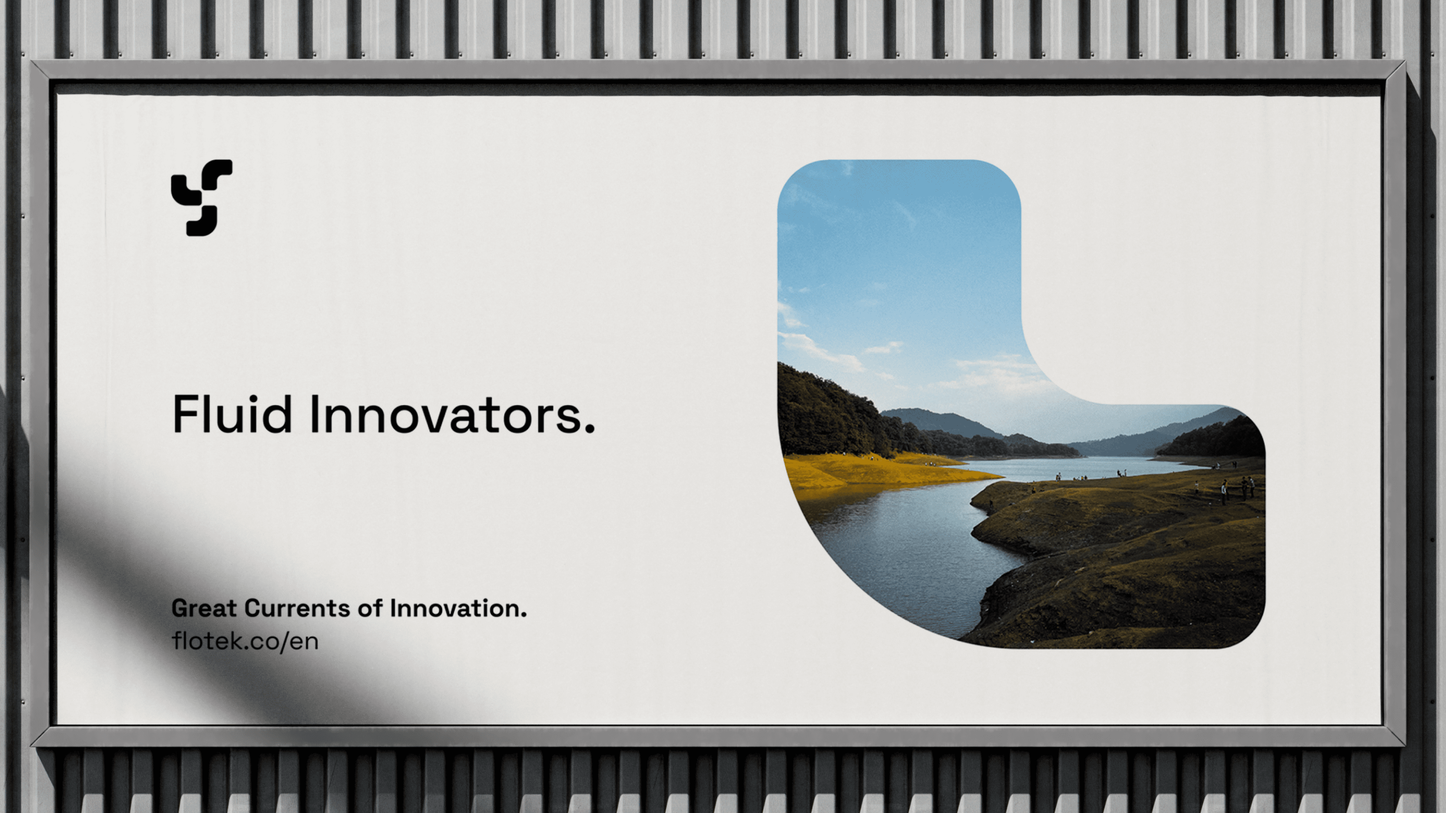
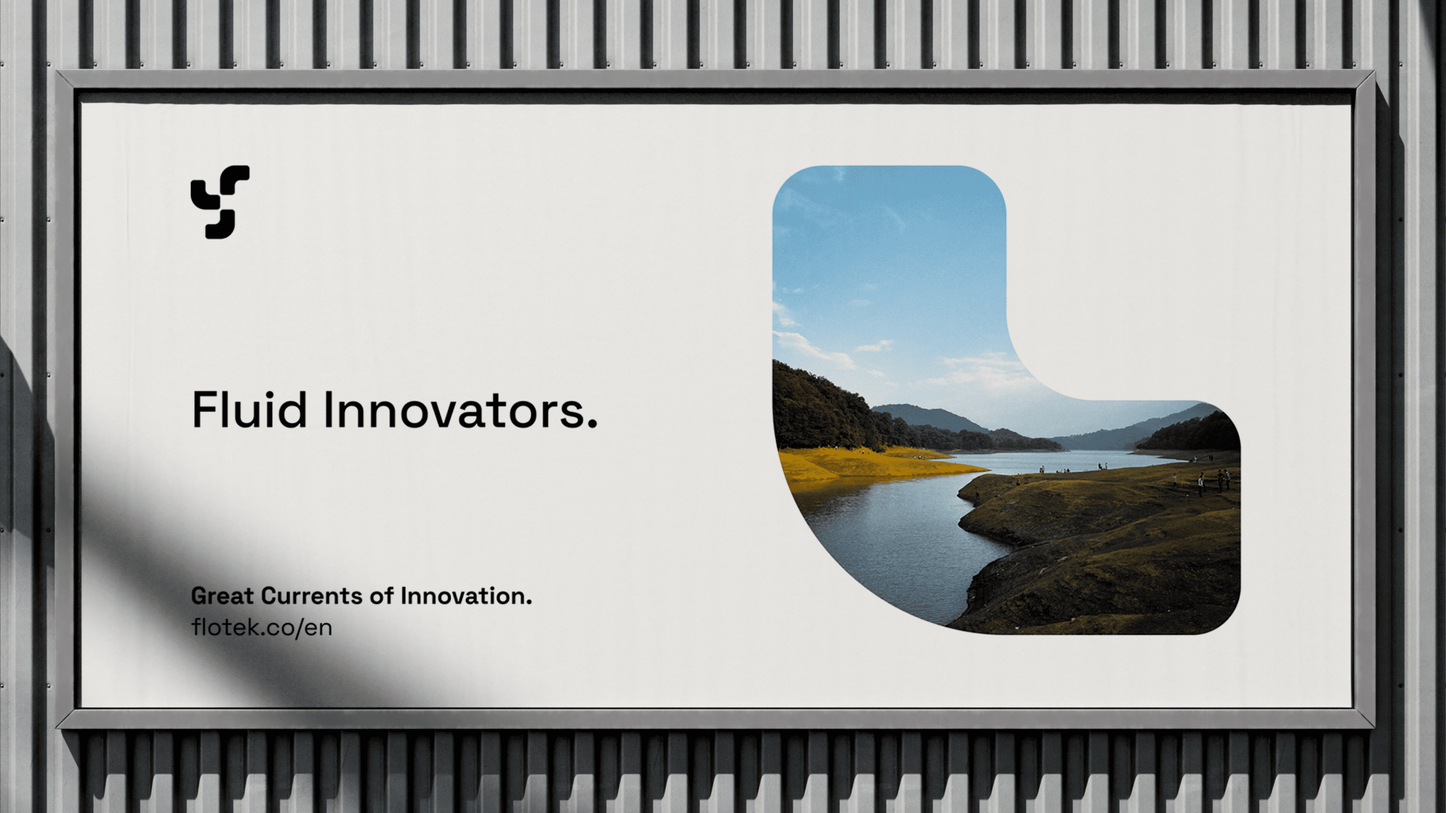
replace images ⚡

diff --git a/pages/index.tsx b/pages/index.tsx
@@ -87,7 +87,7 @@ const Home: NextPage = () => {
             className="relative h-full w-full !cursor-pointer hover:cursor-pointer"
           >
             <img
-              src="/flotek/Frame 3.png"
+              src="/flotek/Frame 13.png"
               className="h-full w-full object-cover object-center"
             />
           </Link>
